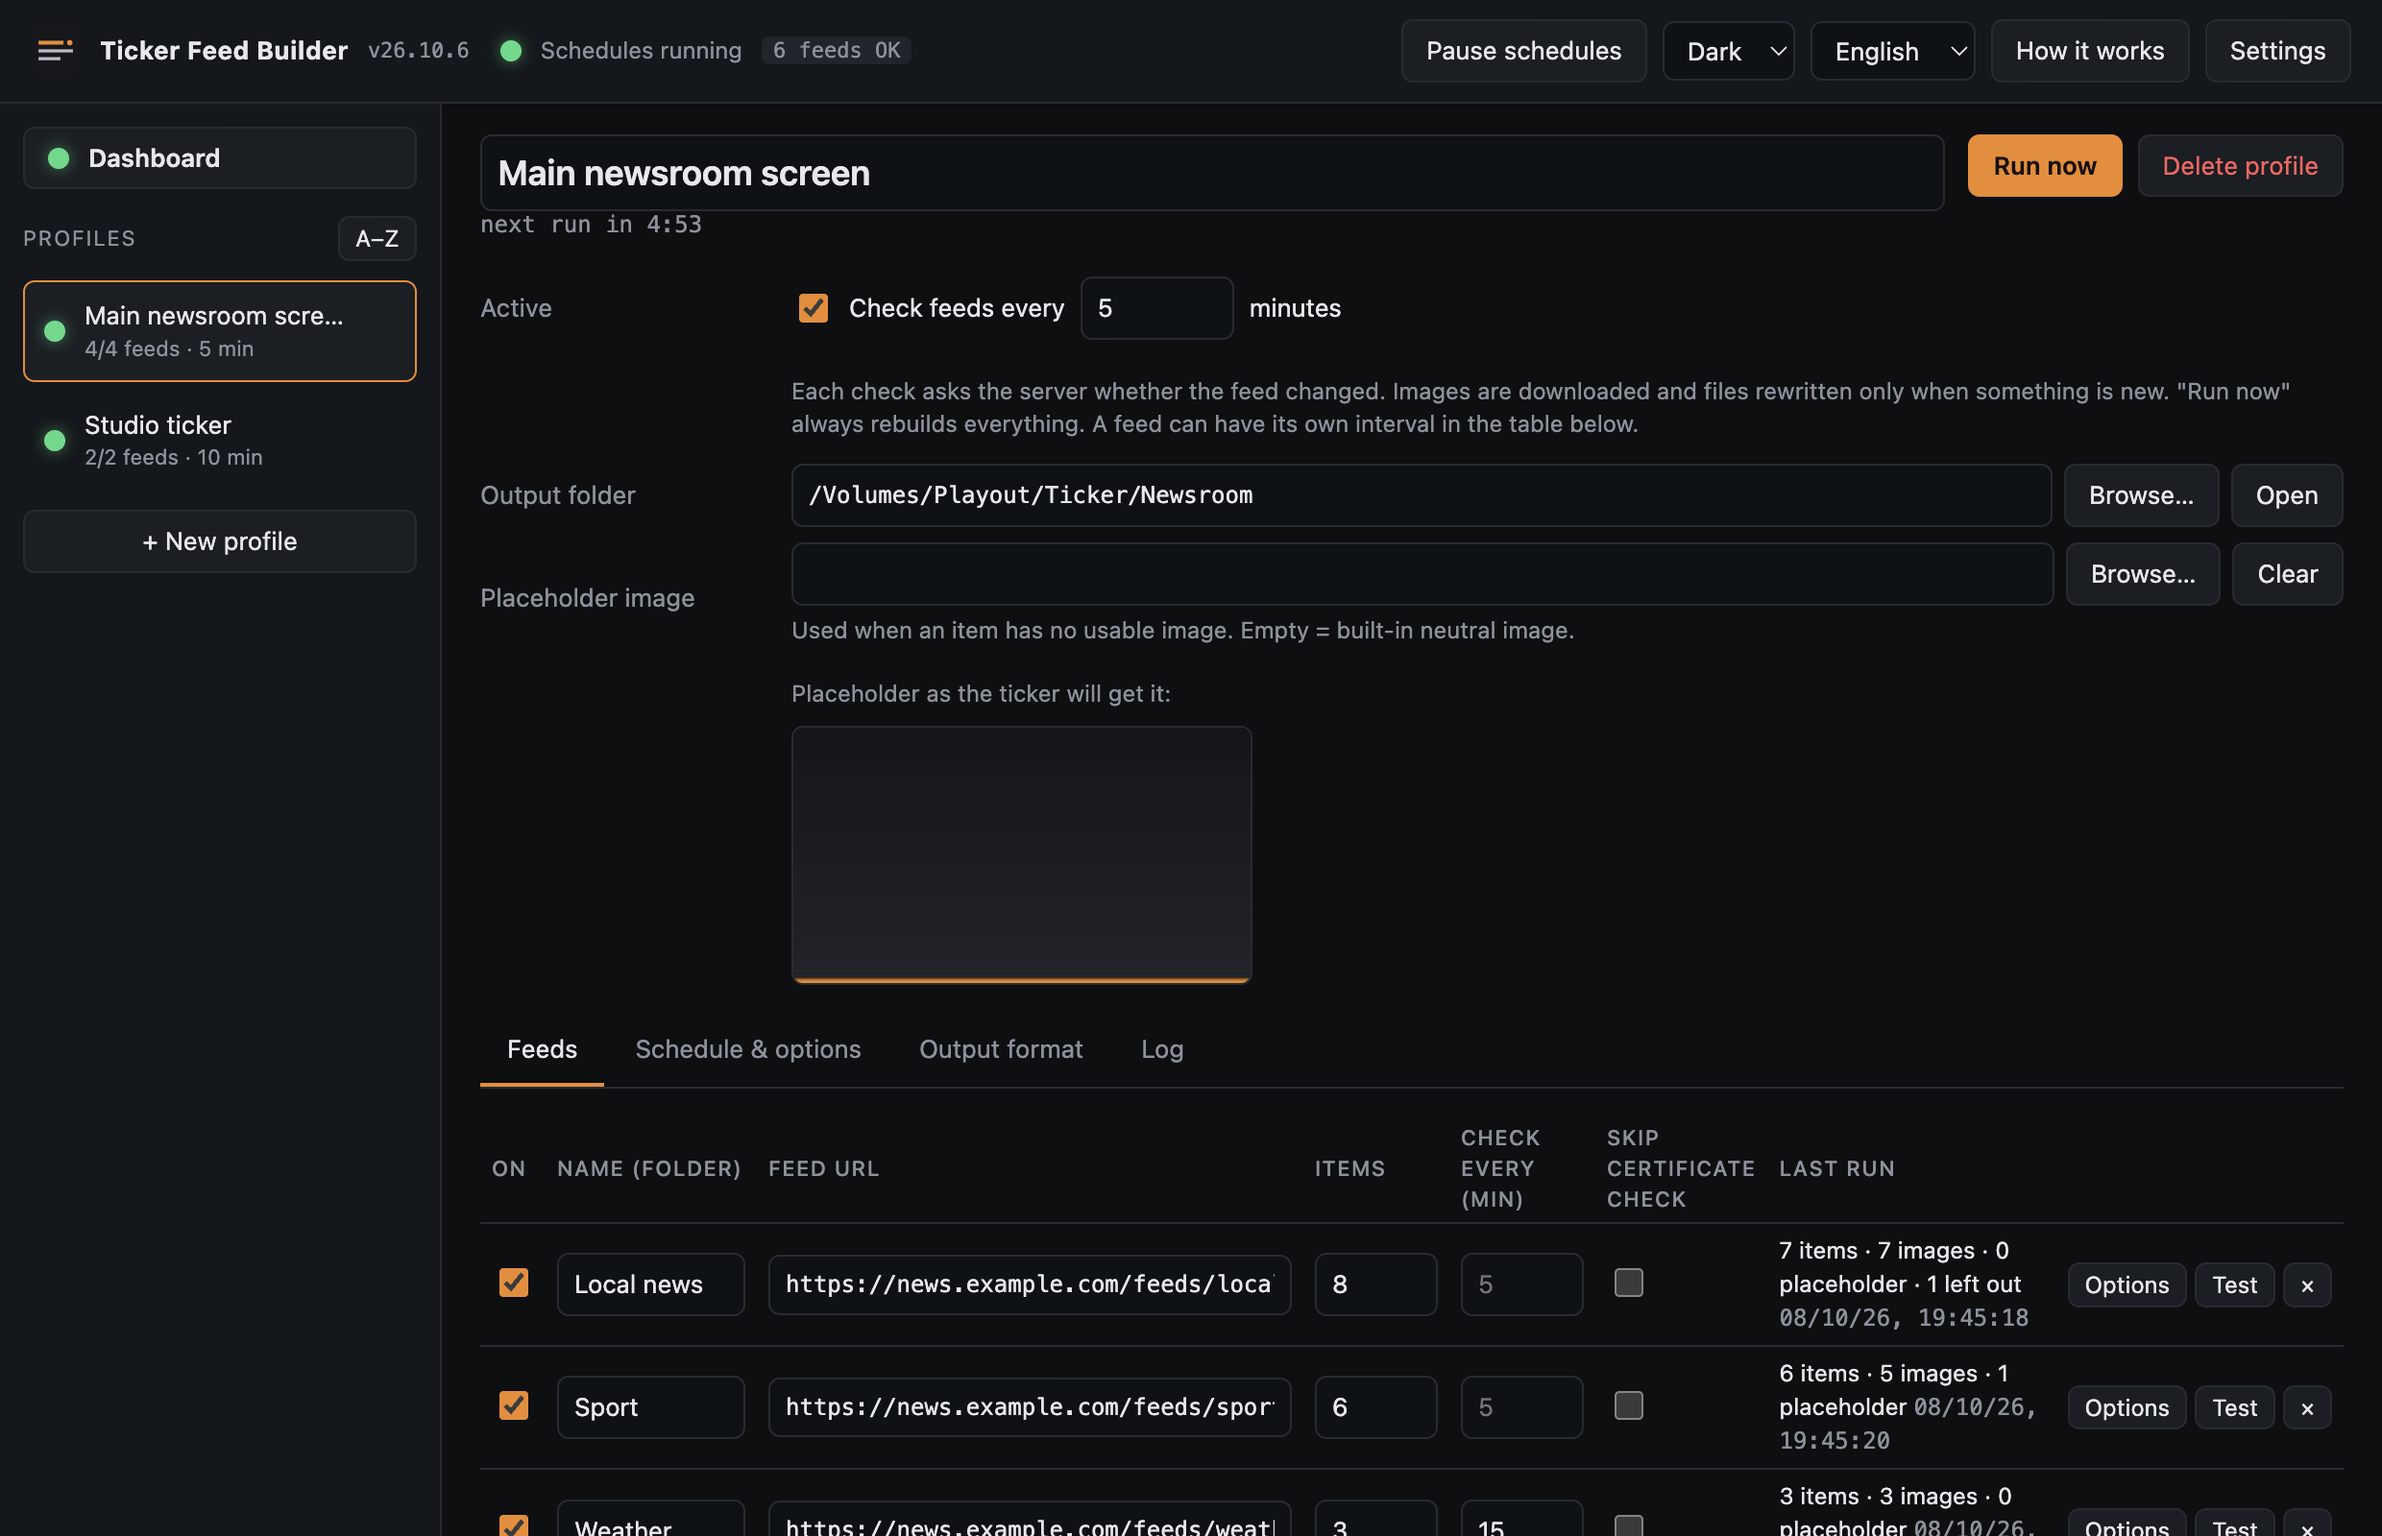
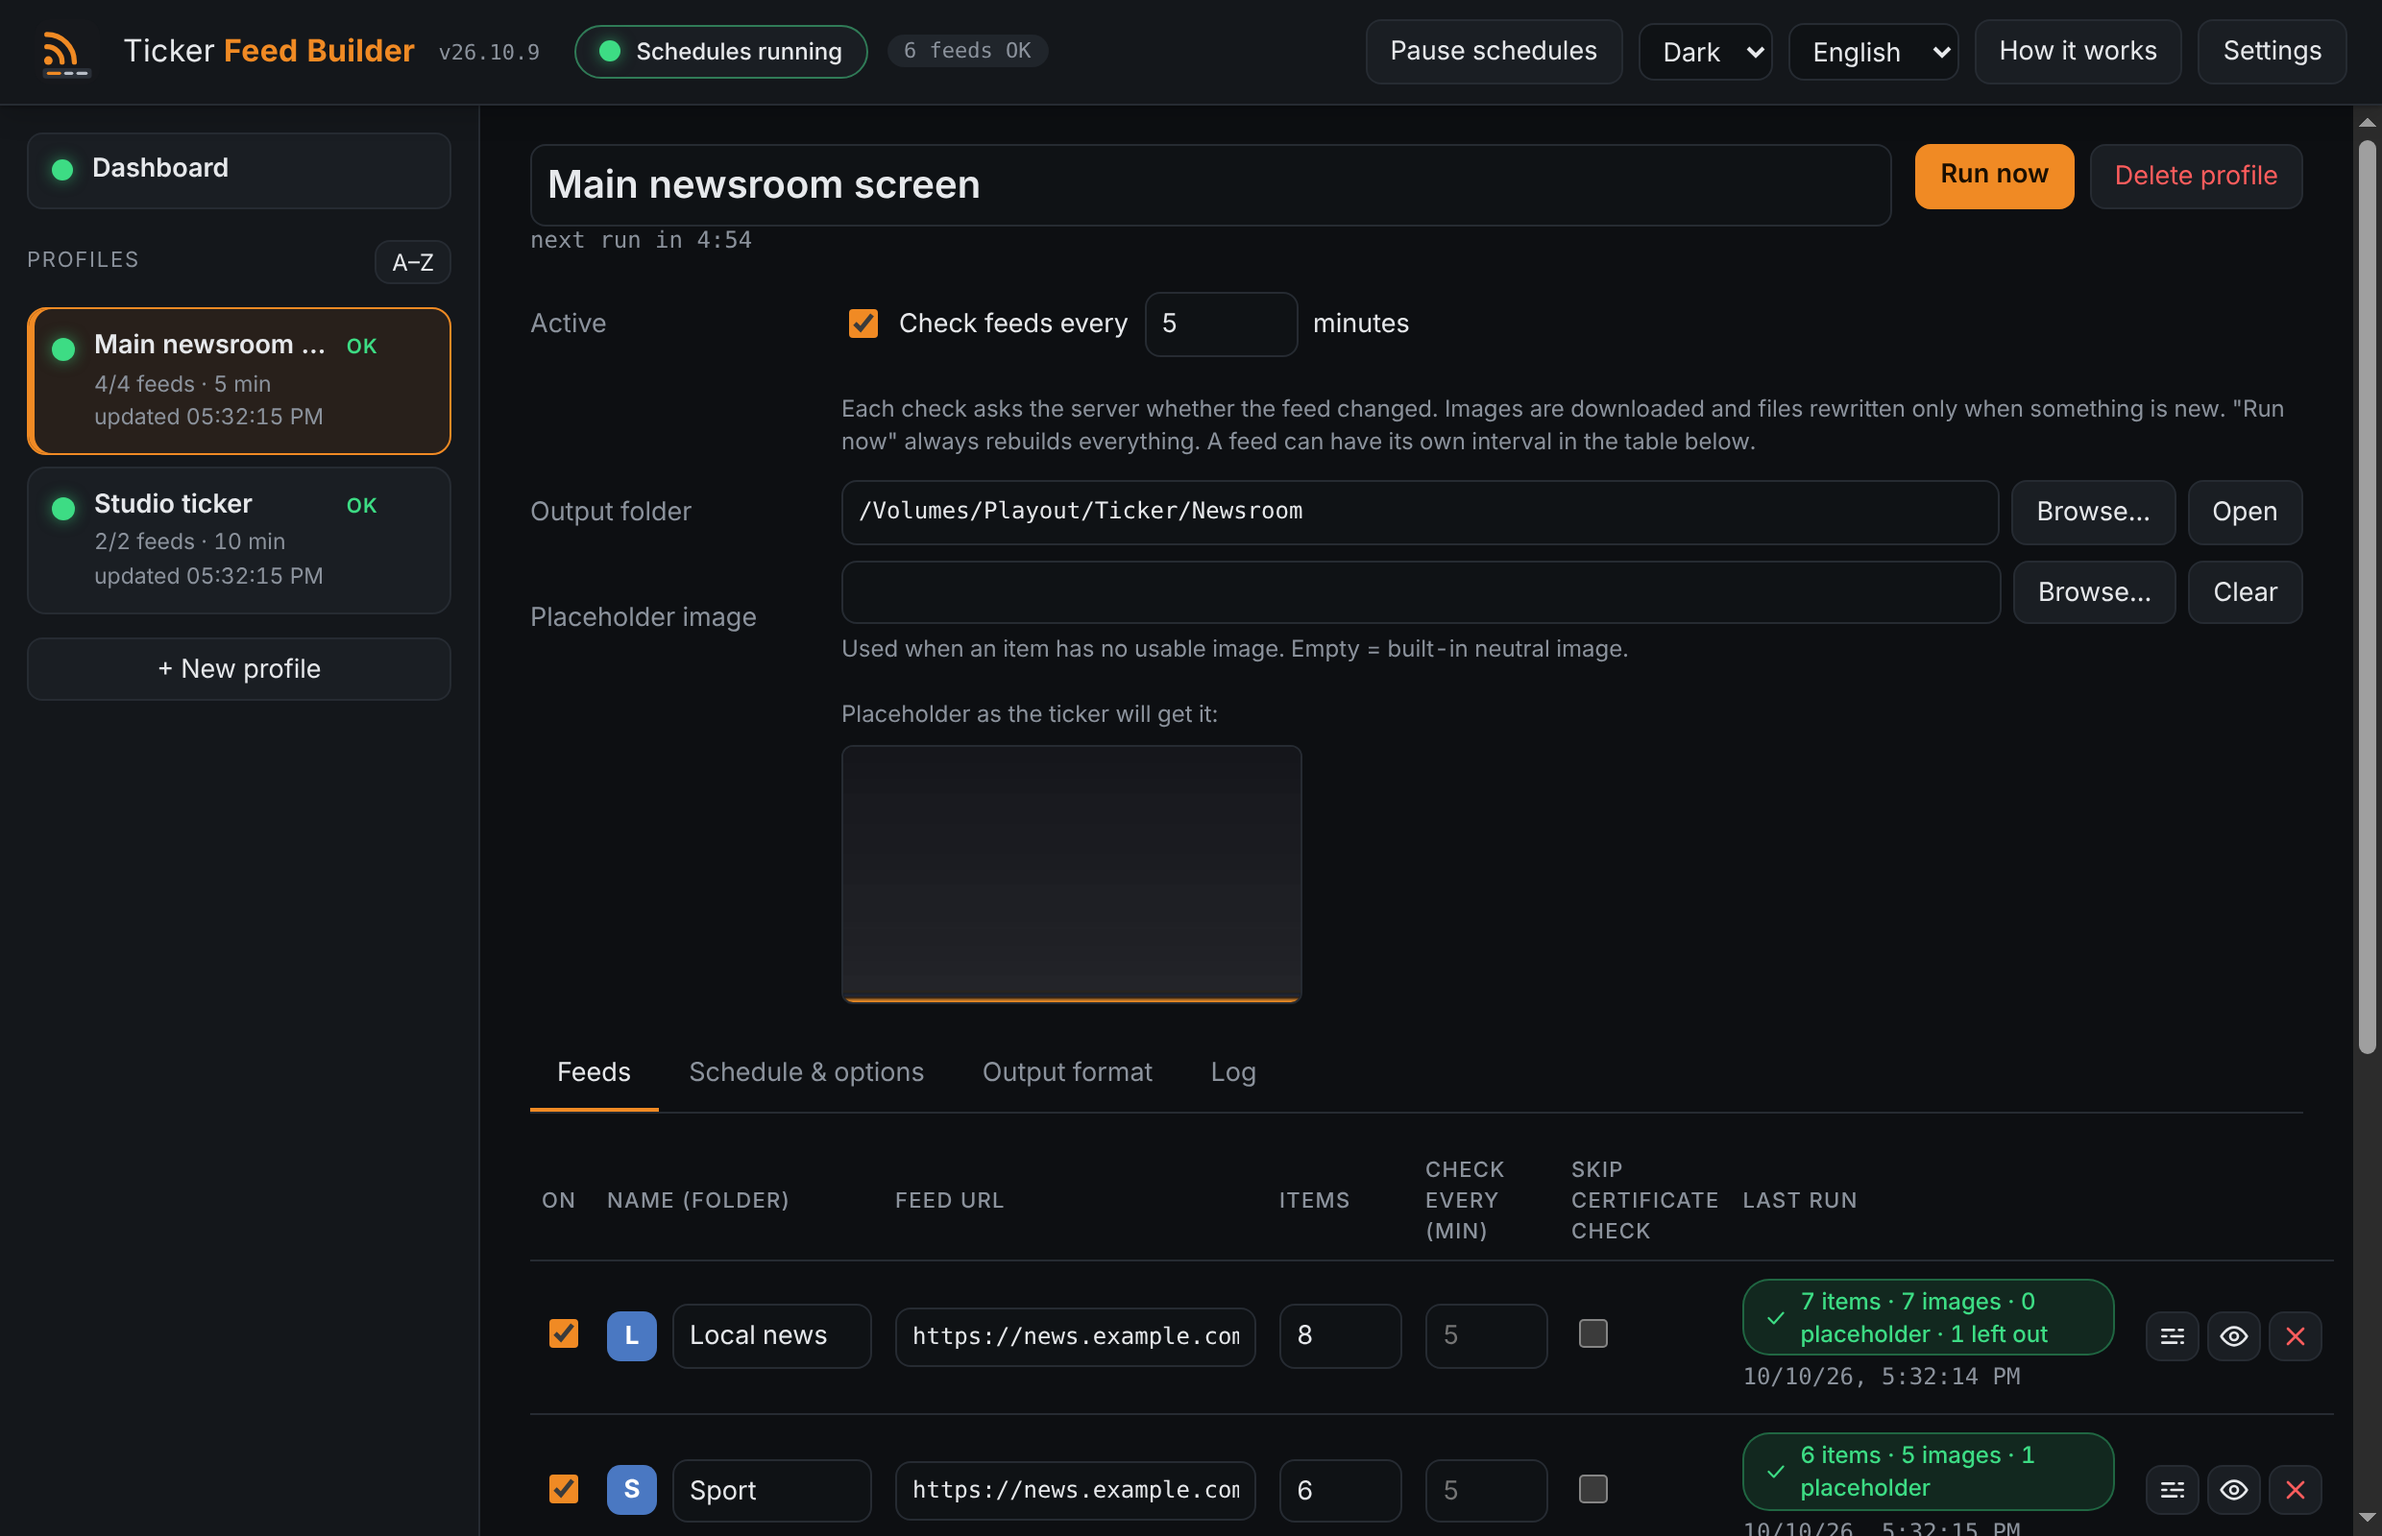
Screenshots of the new look; dashboard tiles fit on one row
- docs/screenshots regenerated from the real app (dev/make-screenshots.mjs now accepts ELECTRON_EXTRA_ARGS, e.g. --no-sandbox in containers)
- README caption says where they were taken; CHANGELOG mentions them

Claude-Session: https://claude.ai/code/session_01AXJdKTkWvAp1zxvqVqqjry

diff --git a/renderer/style.css b/renderer/style.css
@@ -332,3 +332,4 @@ td.st .time { display: block; margin-top: 3px; }
 .dtable td.st .time { display: none; }
 :root { --accent-soft: rgba(240,138,36,.09); }
 :root[data-theme="light"] { --accent-soft: rgba(194,97,10,.08); }
+.tiles { grid-template-columns: repeat(auto-fit, minmax(128px, 1fr)); }

diff --git a/CHANGELOG.md b/CHANGELOG.md
@@ -5,6 +5,7 @@
 - **New logo**: the RSS signal turning into a ticker band, in the OnAir Garage orange. Drawn as SVG (`assets/logo.svg`, `assets/tray.svg`); the app icon (Windows, macOS, Linux), the tray icon and a single-colour menu-bar icon for macOS are generated from it with `dev/make-icons.mjs` (no longer needs a Mac).
 - **New look**: header with the logo and a status pill; profiles in the left column as cards that say in words (OK, Partial, Problem, Running, Off) and show the last file update; dashboard tiles with icons, a progress bar to the next check and, for every feed, a strip with the last 24 hours, one bar per hour (new stories, checked with nothing new, failed, no check), saved with the rest of the state so it survives a restart; feed table with a coloured initial, status pills and icon buttons; the feed preview now also shows the headlines scrolling like on the ticker; a welcome screen with the logo when there is no profile; softer corners, light shadows, small transitions (off when the system asks for less motion), better contrast in the light theme. No change in what the app does with feeds and files.
 - **Alerts like the other OnAir Garage apps**: Telegram and email can now also tell you, once for each new release published on GitHub (Settings, Updates; checked every 6 hours, also with the window closed; on by default, only when a channel is on, easy to switch off). The notification rules are now written in the shared app standard. The code comment of `src/notify.js` no longer says that email is not offered.
+- Screenshots in the README and on the site renewed.
 - Tests: 36 (new ones for the version alert, the hourly history and its restart, the same keys in English/Italian/Spanish and the icon files).
 
 ## 26.10.8 — 2026-10-08

diff --git a/README.md b/README.md
@@ -9,7 +9,7 @@ Downloads RSS feeds on a schedule and turns each one into numbered text lines an
 
 ![Dashboard of Ticker Feed Builder](docs/screenshots/01-dashboard.png)
 
-_Screenshots use invented demo feeds, taken on macOS (dark and light themes)._
+_Screenshots use invented demo feeds, taken from the real app (version 26.10.9, running on Linux; dark and light themes)._
 
 ## What it does
 
